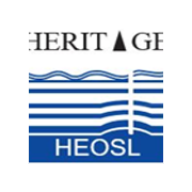
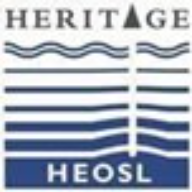
Code cleanup and minor fixes

diff --git a/public/sw.js b/public/sw.js
@@ -1,1 +1,1 @@
-if(!self.define){let e,s={};const n=(n,t)=>(n=new URL(n+".js",t).href,s[n]||new Promise((s=>{if("document"in self){const e=document.createElement("script");e.src=n,e.onload=s,document.head.appendChild(e)}else e=n,importScripts(n),s()})).then((()=>{let e=s[n];if(!e)throw new Error(`Module ${n} didn’t register its module`);return e})));self.define=(t,a)=>{const i=e||("document"in self?document.currentScript.src:"")||location.href;if(s[i])return;let c={};const r=e=>n(e,i),o={module:{uri:i},exports:c,require:r};s[i]=Promise.all(t.map((e=>o[e]||r(e)))).then((e=>(a(...e),c)))}}define(["./workbox-e9849328"],(function(e){"use strict";importScripts(),self.skipWaiting(),e.clientsClaim(),e.precacheAndRoute([{url:"/_next/app-build-manifest.json",revision:"4340a28d9fff7a6cb98d2672f6748934"},{url:"/_next/static/7MRCt-87wC64KAnAEXT73/_buildManifest.js",revision:"d7f819e708b700400663adbbfb380780"},{url:"/_next/static/7MRCt-87wC64KAnAEXT73/_ssgManifest.js",revision:"b6652df95db52feb4daf4eca35380933"},{url:"/_next/static/chunks/305-aa1fced02ab8be4a.js",revision:"7MRCt-87wC64KAnAEXT73"},{url:"/_next/static/chunks/365-8d707c085394b3c7.js",revision:"7MRCt-87wC64KAnAEXT73"},{url:"/_next/static/chunks/425-9b4b0585495cc472.js",revision:"7MRCt-87wC64KAnAEXT73"},{url:"/_next/static/chunks/459-a18e206337d65e51.js",revision:"7MRCt-87wC64KAnAEXT73"},{url:"/_next/static/chunks/588.6ef3aa5974b677c2.js",revision:"6ef3aa5974b677c2"},{url:"/_next/static/chunks/665-92399265e2206842.js",revision:"7MRCt-87wC64KAnAEXT73"},{url:"/_next/static/chunks/741-201db57d33f4a86c.js",revision:"7MRCt-87wC64KAnAEXT73"},{url:"/_next/static/chunks/859-e6e0f8978a8c3e1a.js",revision:"7MRCt-87wC64KAnAEXT73"},{url:"/_next/static/chunks/8b0f4ea0-990c5a0921436c5e.js",revision:"7MRCt-87wC64KAnAEXT73"},{url:"/_next/static/chunks/905.673cee19ac280b86.js",revision:"673cee19ac280b86"},{url:"/_next/static/chunks/app/_not-found/page-b353cc34722b065d.js",revision:"7MRCt-87wC64KAnAEXT73"},{url:"/_next/static/chunks/app/dashboard/layout-15f21f27457cc761.js",revision:"7MRCt-87wC64KAnAEXT73"},{url:"/_next/static/chunks/app/dashboard/page-82c1163f6f65be28.js",revision:"7MRCt-87wC64KAnAEXT73"},{url:"/_next/static/chunks/app/layout-9190de1eb4dd56d9.js",revision:"7MRCt-87wC64KAnAEXT73"},{url:"/_next/static/chunks/app/login/page-15c0958adfbcb359.js",revision:"7MRCt-87wC64KAnAEXT73"},{url:"/_next/static/chunks/app/manifest.webmanifest/route-a065696921612f10.js",revision:"7MRCt-87wC64KAnAEXT73"},{url:"/_next/static/chunks/app/not-found-7bdda4de672d5d2a.js",revision:"7MRCt-87wC64KAnAEXT73"},{url:"/_next/static/chunks/app/page-53dce2c4d4b1d370.js",revision:"7MRCt-87wC64KAnAEXT73"},{url:"/_next/static/chunks/framework-2c0b30b436a9883b.js",revision:"7MRCt-87wC64KAnAEXT73"},{url:"/_next/static/chunks/main-5c40b647db45e34b.js",revision:"7MRCt-87wC64KAnAEXT73"},{url:"/_next/static/chunks/main-app-22132f7ea11dbd94.js",revision:"7MRCt-87wC64KAnAEXT73"},{url:"/_next/static/chunks/pages/_app-74c4f5467c691834.js",revision:"7MRCt-87wC64KAnAEXT73"},{url:"/_next/static/chunks/pages/_error-62a3cfd33bbd6ea2.js",revision:"7MRCt-87wC64KAnAEXT73"},{url:"/_next/static/chunks/polyfills-42372ed130431b0a.js",revision:"846118c33b2c0e922d7b3a7676f81f6f"},{url:"/_next/static/chunks/webpack-84a6dbfa5bc44508.js",revision:"7MRCt-87wC64KAnAEXT73"},{url:"/_next/static/css/c576ad50f8727430.css",revision:"c576ad50f8727430"},{url:"/_next/static/media/4473ecc91f70f139-s.p.woff",revision:"78e6fc13ea317b55ab0bd6dc4849c110"},{url:"/heosl_logo.png",revision:"e9b72a2ae40ac6f61a2dcb85a8a5627d"},{url:"/mavi.jpeg",revision:"3a8362d065ef06bec523ec68aa492820"},{url:"/web-app-manifest-192x192.png",revision:"01745735a91fa64eec83014c1e20da24"},{url:"/web-app-manifest-512x512.png",revision:"e7d990be63199959cd7ef3dccf89837c"}],{ignoreURLParametersMatching:[]}),e.cleanupOutdatedCaches(),e.registerRoute("/",new e.NetworkFirst({cacheName:"start-url",plugins:[{cacheWillUpdate:async({request:e,response:s,event:n,state:t})=>s&&"opaqueredirect"===s.type?new Response(s.body,{status:200,statusText:"OK",headers:s.headers}):s}]}),"GET"),e.registerRoute(/^https:\/\/fonts\.(?:gstatic)\.com\/.*/i,new e.CacheFirst({cacheName:"google-fonts-webfonts",plugins:[new e.ExpirationPlugin({maxEntries:4,maxAgeSeconds:31536e3})]}),"GET"),e.registerRoute(/^https:\/\/fonts\.(?:googleapis)\.com\/.*/i,new e.StaleWhileRevalidate({cacheName:"google-fonts-stylesheets",plugins:[new e.ExpirationPlugin({maxEntries:4,maxAgeSeconds:604800})]}),"GET"),e.registerRoute(/\.(?:eot|otf|ttc|ttf|woff|woff2|font.css)$/i,new e.StaleWhileRevalidate({cacheName:"static-font-assets",plugins:[new e.ExpirationPlugin({maxEntries:4,maxAgeSeconds:604800})]}),"GET"),e.registerRoute(/\.(?:jpg|jpeg|gif|png|svg|ico|webp)$/i,new e.StaleWhileRevalidate({cacheName:"static-image-assets",plugins:[new e.ExpirationPlugin({maxEntries:64,maxAgeSeconds:86400})]}),"GET"),e.registerRoute(/\/_next\/image\?url=.+$/i,new e.StaleWhileRevalidate({cacheName:"next-image",plugins:[new e.ExpirationPlugin({maxEntries:64,maxAgeSeconds:86400})]}),"GET"),e.registerRoute(/\.(?:mp3|wav|ogg)$/i,new e.CacheFirst({cacheName:"static-audio-assets",plugins:[new e.RangeRequestsPlugin,new e.ExpirationPlugin({maxEntries:32,maxAgeSeconds:86400})]}),"GET"),e.registerRoute(/\.(?:mp4)$/i,new e.CacheFirst({cacheName:"static-video-assets",plugins:[new e.RangeRequestsPlugin,new e.ExpirationPlugin({maxEntries:32,maxAgeSeconds:86400})]}),"GET"),e.registerRoute(/\.(?:js)$/i,new e.StaleWhileRevalidate({cacheName:"static-js-assets",plugins:[new e.ExpirationPlugin({maxEntries:32,maxAgeSeconds:86400})]}),"GET"),e.registerRoute(/\.(?:css|less)$/i,new e.StaleWhileRevalidate({cacheName:"static-style-assets",plugins:[new e.ExpirationPlugin({maxEntries:32,maxAgeSeconds:86400})]}),"GET"),e.registerRoute(/\/_next\/data\/.+\/.+\.json$/i,new e.StaleWhileRevalidate({cacheName:"next-data",plugins:[new e.ExpirationPlugin({maxEntries:32,maxAgeSeconds:86400})]}),"GET"),e.registerRoute(/\.(?:json|xml|csv)$/i,new e.NetworkFirst({cacheName:"static-data-assets",plugins:[new e.ExpirationPlugin({maxEntries:32,maxAgeSeconds:86400})]}),"GET"),e.registerRoute((({url:e})=>{if(!(self.origin===e.origin))return!1;const s=e.pathname;return!s.startsWith("/api/auth/")&&!!s.startsWith("/api/")}),new e.NetworkFirst({cacheName:"apis",networkTimeoutSeconds:10,plugins:[new e.ExpirationPlugin({maxEntries:16,maxAgeSeconds:86400})]}),"GET"),e.registerRoute((({url:e})=>{if(!(self.origin===e.origin))return!1;return!e.pathname.startsWith("/api/")}),new e.NetworkFirst({cacheName:"others",networkTimeoutSeconds:10,plugins:[new e.ExpirationPlugin({maxEntries:32,maxAgeSeconds:86400})]}),"GET"),e.registerRoute((({url:e})=>!(self.origin===e.origin)),new e.NetworkFirst({cacheName:"cross-origin",networkTimeoutSeconds:10,plugins:[new e.ExpirationPlugin({maxEntries:32,maxAgeSeconds:3600})]}),"GET")}));
+if(!self.define){let e,s={};const a=(a,n)=>(a=new URL(a+".js",n).href,s[a]||new Promise((s=>{if("document"in self){const e=document.createElement("script");e.src=a,e.onload=s,document.head.appendChild(e)}else e=a,importScripts(a),s()})).then((()=>{let e=s[a];if(!e)throw new Error(`Module ${a} didn’t register its module`);return e})));self.define=(n,t)=>{const i=e||("document"in self?document.currentScript.src:"")||location.href;if(s[i])return;let c={};const o=e=>a(e,i),r={module:{uri:i},exports:c,require:o};s[i]=Promise.all(n.map((e=>r[e]||o(e)))).then((e=>(t(...e),c)))}}define(["./workbox-e9849328"],(function(e){"use strict";importScripts(),self.skipWaiting(),e.clientsClaim(),e.precacheAndRoute([{url:"/_next/app-build-manifest.json",revision:"0adc017daa52d1e17f4012d26a6ee444"},{url:"/_next/static/66g3goalWU_H6SDe9jKJa/_buildManifest.js",revision:"5ecc1810243aa548f700a9b49b9936b4"},{url:"/_next/static/66g3goalWU_H6SDe9jKJa/_ssgManifest.js",revision:"b6652df95db52feb4daf4eca35380933"},{url:"/_next/static/chunks/305-aa1fced02ab8be4a.js",revision:"66g3goalWU_H6SDe9jKJa"},{url:"/_next/static/chunks/365-8d707c085394b3c7.js",revision:"66g3goalWU_H6SDe9jKJa"},{url:"/_next/static/chunks/425-a533decd8bc8f68d.js",revision:"66g3goalWU_H6SDe9jKJa"},{url:"/_next/static/chunks/459-a18e206337d65e51.js",revision:"66g3goalWU_H6SDe9jKJa"},{url:"/_next/static/chunks/588.6ef3aa5974b677c2.js",revision:"6ef3aa5974b677c2"},{url:"/_next/static/chunks/665-92399265e2206842.js",revision:"66g3goalWU_H6SDe9jKJa"},{url:"/_next/static/chunks/741-201db57d33f4a86c.js",revision:"66g3goalWU_H6SDe9jKJa"},{url:"/_next/static/chunks/859-e6e0f8978a8c3e1a.js",revision:"66g3goalWU_H6SDe9jKJa"},{url:"/_next/static/chunks/8b0f4ea0-990c5a0921436c5e.js",revision:"66g3goalWU_H6SDe9jKJa"},{url:"/_next/static/chunks/905.673cee19ac280b86.js",revision:"673cee19ac280b86"},{url:"/_next/static/chunks/app/_not-found/page-b353cc34722b065d.js",revision:"66g3goalWU_H6SDe9jKJa"},{url:"/_next/static/chunks/app/dashboard/layout-8b396ab283d4367b.js",revision:"66g3goalWU_H6SDe9jKJa"},{url:"/_next/static/chunks/app/dashboard/page-6110d601e6e0b3b6.js",revision:"66g3goalWU_H6SDe9jKJa"},{url:"/_next/static/chunks/app/layout-329ced62514fd5eb.js",revision:"66g3goalWU_H6SDe9jKJa"},{url:"/_next/static/chunks/app/login/page-9312a9e02d81ccda.js",revision:"66g3goalWU_H6SDe9jKJa"},{url:"/_next/static/chunks/app/manifest.webmanifest/route-a065696921612f10.js",revision:"66g3goalWU_H6SDe9jKJa"},{url:"/_next/static/chunks/app/not-found-c2ad33e645f729aa.js",revision:"66g3goalWU_H6SDe9jKJa"},{url:"/_next/static/chunks/app/page-53dce2c4d4b1d370.js",revision:"66g3goalWU_H6SDe9jKJa"},{url:"/_next/static/chunks/framework-2c0b30b436a9883b.js",revision:"66g3goalWU_H6SDe9jKJa"},{url:"/_next/static/chunks/main-5c40b647db45e34b.js",revision:"66g3goalWU_H6SDe9jKJa"},{url:"/_next/static/chunks/main-app-af53cd72cfe0ca55.js",revision:"66g3goalWU_H6SDe9jKJa"},{url:"/_next/static/chunks/pages/_app-74c4f5467c691834.js",revision:"66g3goalWU_H6SDe9jKJa"},{url:"/_next/static/chunks/pages/_error-62a3cfd33bbd6ea2.js",revision:"66g3goalWU_H6SDe9jKJa"},{url:"/_next/static/chunks/polyfills-42372ed130431b0a.js",revision:"846118c33b2c0e922d7b3a7676f81f6f"},{url:"/_next/static/chunks/webpack-84a6dbfa5bc44508.js",revision:"66g3goalWU_H6SDe9jKJa"},{url:"/_next/static/css/06e49718ff9cdd0f.css",revision:"06e49718ff9cdd0f"},{url:"/_next/static/media/4473ecc91f70f139-s.p.woff",revision:"78e6fc13ea317b55ab0bd6dc4849c110"},{url:"/heosl_logo.jpg",revision:"aa8c27b4424d17cd12fc8ed4e0fd9094"},{url:"/mavi.jpeg",revision:"3a8362d065ef06bec523ec68aa492820"},{url:"/web-app-manifest-192x192.png",revision:"3a10bf81ae0cc5b06b19ed3bed50a29d"},{url:"/web-app-manifest-512x512.png",revision:"86ace17b2f173df720b76b2d65f203eb"}],{ignoreURLParametersMatching:[]}),e.cleanupOutdatedCaches(),e.registerRoute("/",new e.NetworkFirst({cacheName:"start-url",plugins:[{cacheWillUpdate:async({request:e,response:s,event:a,state:n})=>s&&"opaqueredirect"===s.type?new Response(s.body,{status:200,statusText:"OK",headers:s.headers}):s}]}),"GET"),e.registerRoute(/^https:\/\/fonts\.(?:gstatic)\.com\/.*/i,new e.CacheFirst({cacheName:"google-fonts-webfonts",plugins:[new e.ExpirationPlugin({maxEntries:4,maxAgeSeconds:31536e3})]}),"GET"),e.registerRoute(/^https:\/\/fonts\.(?:googleapis)\.com\/.*/i,new e.StaleWhileRevalidate({cacheName:"google-fonts-stylesheets",plugins:[new e.ExpirationPlugin({maxEntries:4,maxAgeSeconds:604800})]}),"GET"),e.registerRoute(/\.(?:eot|otf|ttc|ttf|woff|woff2|font.css)$/i,new e.StaleWhileRevalidate({cacheName:"static-font-assets",plugins:[new e.ExpirationPlugin({maxEntries:4,maxAgeSeconds:604800})]}),"GET"),e.registerRoute(/\.(?:jpg|jpeg|gif|png|svg|ico|webp)$/i,new e.StaleWhileRevalidate({cacheName:"static-image-assets",plugins:[new e.ExpirationPlugin({maxEntries:64,maxAgeSeconds:86400})]}),"GET"),e.registerRoute(/\/_next\/image\?url=.+$/i,new e.StaleWhileRevalidate({cacheName:"next-image",plugins:[new e.ExpirationPlugin({maxEntries:64,maxAgeSeconds:86400})]}),"GET"),e.registerRoute(/\.(?:mp3|wav|ogg)$/i,new e.CacheFirst({cacheName:"static-audio-assets",plugins:[new e.RangeRequestsPlugin,new e.ExpirationPlugin({maxEntries:32,maxAgeSeconds:86400})]}),"GET"),e.registerRoute(/\.(?:mp4)$/i,new e.CacheFirst({cacheName:"static-video-assets",plugins:[new e.RangeRequestsPlugin,new e.ExpirationPlugin({maxEntries:32,maxAgeSeconds:86400})]}),"GET"),e.registerRoute(/\.(?:js)$/i,new e.StaleWhileRevalidate({cacheName:"static-js-assets",plugins:[new e.ExpirationPlugin({maxEntries:32,maxAgeSeconds:86400})]}),"GET"),e.registerRoute(/\.(?:css|less)$/i,new e.StaleWhileRevalidate({cacheName:"static-style-assets",plugins:[new e.ExpirationPlugin({maxEntries:32,maxAgeSeconds:86400})]}),"GET"),e.registerRoute(/\/_next\/data\/.+\/.+\.json$/i,new e.StaleWhileRevalidate({cacheName:"next-data",plugins:[new e.ExpirationPlugin({maxEntries:32,maxAgeSeconds:86400})]}),"GET"),e.registerRoute(/\.(?:json|xml|csv)$/i,new e.NetworkFirst({cacheName:"static-data-assets",plugins:[new e.ExpirationPlugin({maxEntries:32,maxAgeSeconds:86400})]}),"GET"),e.registerRoute((({url:e})=>{if(!(self.origin===e.origin))return!1;const s=e.pathname;return!s.startsWith("/api/auth/")&&!!s.startsWith("/api/")}),new e.NetworkFirst({cacheName:"apis",networkTimeoutSeconds:10,plugins:[new e.ExpirationPlugin({maxEntries:16,maxAgeSeconds:86400})]}),"GET"),e.registerRoute((({url:e})=>{if(!(self.origin===e.origin))return!1;return!e.pathname.startsWith("/api/")}),new e.NetworkFirst({cacheName:"others",networkTimeoutSeconds:10,plugins:[new e.ExpirationPlugin({maxEntries:32,maxAgeSeconds:86400})]}),"GET"),e.registerRoute((({url:e})=>!(self.origin===e.origin)),new e.NetworkFirst({cacheName:"cross-origin",networkTimeoutSeconds:10,plugins:[new e.ExpirationPlugin({maxEntries:32,maxAgeSeconds:3600})]}),"GET")}));

diff --git a/src/components/tank-level.tsx b/src/components/tank-level.tsx
@@ -47,51 +47,59 @@ export function TankLevelChart({
         <CardTitle className="uppercase">{title}</CardTitle>
         <CardDescription>{description}</CardDescription>
       </CardHeader>
-      <CardContent>
-        <ChartContainer config={chartConfig} className="h-[260] w-full">
-          <BarChart accessibilityLayer data={chartData}>
-            <CartesianGrid vertical={false} />
-            <XAxis
-              dataKey="tankID"
-              tickLine={false}
-              tickMargin={10}
-              axisLine={false}
-            />
-            <ChartTooltip
-              content={
-                <ChartTooltipContent className="min-w-[150px]" hideLabel />
-              }
-            />
-            <ChartLegend content={<ChartLegendContent />} />
-            {!isMobile && (
-              <YAxis
+      {chartData.length !== 0 ? (
+        <CardContent>
+          <ChartContainer config={chartConfig} className="h-[260] w-full">
+            <BarChart accessibilityLayer data={chartData}>
+              <CartesianGrid vertical={false} />
+              <XAxis
+                dataKey="tankID"
                 tickLine={false}
-                axisLine={false}
                 tickMargin={10}
-                type="number"
-                label={{
-                  value: title,
-                  angle: -90,
-                  position: "center",
-                  dx: -10,
-                }}
+                axisLine={false}
               />
-            )}
-            <Bar
-              dataKey="water"
-              stackId="a"
-              fill="var(--color-water)"
-              radius={[0, 0, 0, 0]}
-            />
-            <Bar
-              dataKey="oil"
-              stackId="a"
-              fill="var(--color-oil)"
-              radius={[8, 8, 0, 0]}
-            />
-          </BarChart>
-        </ChartContainer>
-      </CardContent>
+              <ChartTooltip
+                content={
+                  <ChartTooltipContent className="min-w-[150px]" hideLabel />
+                }
+              />
+              <ChartLegend content={<ChartLegendContent />} />
+              {!isMobile && (
+                <YAxis
+                  tickLine={false}
+                  axisLine={false}
+                  tickMargin={10}
+                  type="number"
+                  label={{
+                    value: title,
+                    angle: -90,
+                    position: "center",
+                    dx: -25,
+                  }}
+                />
+              )}
+              <Bar
+                dataKey="water"
+                stackId="a"
+                fill="var(--color-water)"
+                radius={[0, 0, 0, 0]}
+              />
+              <Bar
+                dataKey="oil"
+                stackId="a"
+                fill="var(--color-oil)"
+                radius={[8, 8, 0, 0]}
+              />
+            </BarChart>
+          </ChartContainer>
+        </CardContent>
+      ) : (
+        <div className="text-sm grid place-items-center h-full hover:bg-muted/50 transition-colors min-h-[320]">
+          <span className="m-3">
+            No data available for the selected time period and locations.
+          </span>
+        </div>
+      )}
     </Card>
   );
 }

diff --git a/src/app/dashboard/page.tsx b/src/app/dashboard/page.tsx
@@ -12,7 +12,7 @@ import {
   TankLevelChartEntry,
   TransformedEntry,
 } from "@/lib/definitions";
-import { convertToApiDateFormat } from "@/lib/utils";
+import { formatToApiDateFormat, formatToUrlDate } from "@/lib/utils";
 
 async function getDailyTankLevel(date: string) {
   const res = await fetch(
@@ -57,7 +57,12 @@ export default async function ProductionDashboardPage({
 }: {
   searchParams: Promise<{ [key: string]: string | string[] | undefined }>;
 }) {
-  const { day = new Date().toLocaleDateString("en-GB") } = await searchParams;
+  // Extract the 'day' parameter from searchParams, defaulting to yesterday's date
+  // If 'day' is an array, take the first element
+
+  // If 'day' is not provided, use yesterday's date formatted as dd-MM-yyyy
+  // This ensures that the date is always in the correct format for the API
+  const { day = formatToUrlDate(new Date(new Date().setDate(new Date().getDate()-1))) } = await searchParams;
   // Ensure day is always a string
   const dayStr = Array.isArray(day) ? day[0] : day;
   const session = await auth();
@@ -66,8 +71,8 @@ export default async function ProductionDashboardPage({
     redirect("/login"); // Redirect if no session
   }
 
-  const dailyTankLevelData = getDailyTankLevel(convertToApiDateFormat(dayStr));
-  const dailyStorageData = getDailyStorageData(convertToApiDateFormat(dayStr));
+  const dailyTankLevelData = getDailyTankLevel(formatToApiDateFormat(dayStr));
+  const dailyStorageData = getDailyStorageData(formatToApiDateFormat(dayStr));
   const productionData = getDailyProductionData();
 
   // Initiate all requests in parallel

diff --git a/src/app/dashboard/dashboard-page.tsx b/src/app/dashboard/dashboard-page.tsx
@@ -19,7 +19,7 @@ import {
   ChartTooltip,
   ChartTooltipContent,
 } from "@/components/ui/chart";
-import { cn, convertToApiDateFormat, formatToUrlDate } from "@/lib/utils";
+import { cn, formatToApiDateFormat, formatToUrlDate } from "@/lib/utils";
 import { Button } from "@/components/ui/button";
 import {
   Command,
@@ -106,9 +106,6 @@ function getProductionTotals(
   for (const entries of Object.values(data)) {
     for (const entry of entries) {
       const entryDate = new Date(entry.date);
-
-      console.log(entryDate);
-      console.log(selected);
 
       // Total for the selected day
       if (entryDate === selected) {
@@ -360,7 +357,7 @@ export default function ProductionDashboard({
 
   const result = getProductionTotals(
     chartData,
-    convertToApiDateFormat(dayFromURL)
+    formatToApiDateFormat(dayFromURL)
   );
   // console.log("Result/n", result);
 
@@ -421,7 +418,7 @@ export default function ProductionDashboard({
   const carouselData = getActualsWithTarget(
     chartData,
     netTargetByLocation,
-    convertToApiDateFormat(dayFromURL)
+    formatToApiDateFormat(dayFromURL)
   );
 
   // Sync local state when URL changes (like back/forward navigation)

diff --git a/src/components/app-sidebar.tsx b/src/components/app-sidebar.tsx
@@ -63,14 +63,15 @@ export function AppSidebar({ ...props }: React.ComponentProps<typeof Sidebar>) {
           <SidebarMenuItem>
             <SidebarMenuButton
               asChild
-              className="relative w-[76px] h-auto aspect-[154/135] rounded-none"
+              className="relative w-[76px] h-auto aspect-square rounded-none"
             >
               <Link href="/">
                 <Image
-                  src="/heosl_logo.png"
-                  alt=""
                   fill
+                  alt=""
+                  src="/heosl_logo.jpg"
                   className="object-contain object-left-top"
+                  sizes="(max-width: 768px) 100vw, (max-width: 1200px) 50vw, 33vw"
                 />
               </Link>
             </SidebarMenuButton>

diff --git a/src/components/login-form.tsx b/src/components/login-form.tsx
@@ -27,12 +27,13 @@ export function LoginForm({
       <form action={formAction}>
         <div className="flex flex-col gap-6">
           <div className="flex flex-col items-center gap-2">
-            <a href="#" className="relative w-[80px] h-auto aspect-[154/135]">
+            <a href="#" className="relative w-[80px] h-auto aspect-square">
               <Image
-                src="/heosl_logo.png"
-                className="object-contain object-left-top"
                 alt=""
                 fill
+                src="/heosl_logo.jpg"
+                className="object-contain object-left-top"
+                sizes="(max-width: 768px) 100vw, (max-width: 1200px) 50vw, 33vw"
               />
               <span className="sr-only">HEOSL</span>
             </a>

diff --git a/src/components/dashboard/location-difference-card.tsx b/src/components/dashboard/location-difference-card.tsx
@@ -56,7 +56,7 @@ export function LocationDifferenceCard({
     <CardContent className="flex flex-col items-center justify-start px-4">
       <div className="flex flex-col items-center justify-center mb-5">
         <CardDescription className="text-sm">
-          {entry?.date || selectedDate}
+          {entry?.date || selectedDate && selectedDate.replace(/-/g, '/')}
         </CardDescription>
         <CardTitle className="text-lg mb-0">{location}</CardTitle>
       </div>

diff --git a/src/app/layout.tsx b/src/app/layout.tsx
@@ -51,6 +51,7 @@ export default function RootLayout({
       <head>
         <link rel="manifest" href="/manifest.webmanifest" />
         <link rel="apple-touch-icon" href="/apple-icon.png" />
+        <meta name="apple-mobile-web-app-title" content="HEOSL" />
       </head>
       <body
         className={`${geistVF.variable} antialiased font-geistVF scroll-smooth`}

diff --git a/src/app/dashboard/components/data-table-toolbar.tsx b/src/app/dashboard/components/data-table-toolbar.tsx
@@ -32,7 +32,6 @@ export function DataTableToolbar<TData>({
           <DataTableFacetedFilter
             column={table.getColumn("Location")}
             title="Location"
-            paramKey="loc"
             options={[
               { label: "AFIESERE", value: "AFIESERE" },
               { label: "ERIEMU", value: "ERIEMU" },

diff --git a/src/lib/utils.ts b/src/lib/utils.ts
@@ -6,7 +6,7 @@ export function cn(...inputs: ClassValue[]) {
   return twMerge(clsx(inputs))
 }
 
-export function convertToApiDateFormat(dateStr: string): string {
+export function formatToApiDateFormat(dateStr: string): string {
   const [dd, mm, yyyy] = dateStr.split("-");
   return `${parseInt(mm)}/${parseInt(dd)}/${yyyy}`;
 }

diff --git a/src/app/manifest.ts b/src/app/manifest.ts
@@ -8,7 +8,7 @@ export default function manifest(): MetadataRoute.Manifest {
     start_url: '/',
     display: 'standalone',
     background_color: '#ffffff',
-    theme_color: '#000000',
+    theme_color: '#ffffff',
     icons: [{
       "src": "/web-app-manifest-192x192.png",
       "sizes": "192x192",

diff --git a/src/components/tfp-incidents-chart.tsx b/src/components/tfp-incidents-chart.tsx
@@ -85,7 +85,7 @@ export function TFPIncidentChart() {
                 value: "TFP Incidents count",
                 angle: -90,
                 position: "center",
-                dx: -10,
+                dx: -25,
               }}
             />)}
             <Bar
